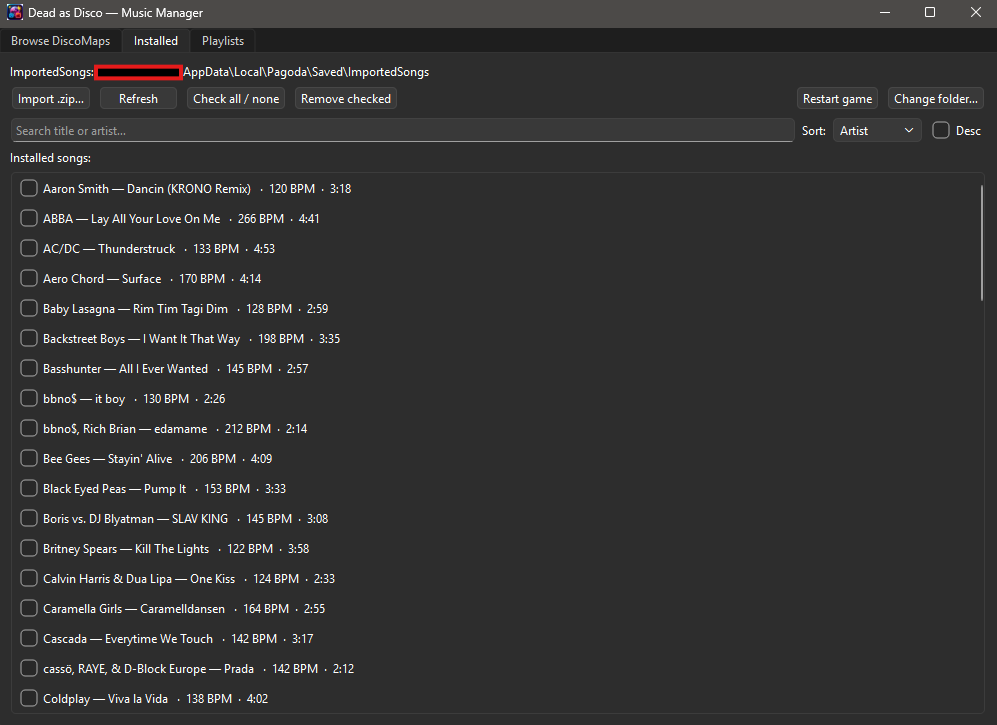
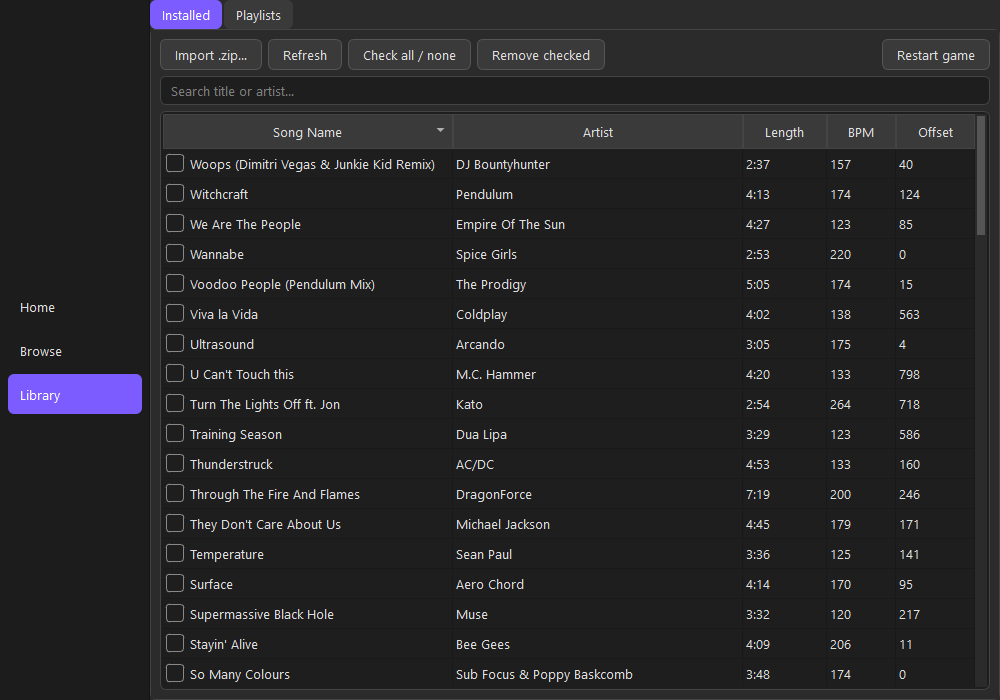
Update README and screenshots for new sidebar UI

diff --git a/README.md b/README.md
@@ -21,6 +21,7 @@ all from one app.
 - **Playlists**: create, edit, reorder, rename, and delete playlists of your
   imported songs
 - **Restart the game** from the app to apply changes
+- Simple sidebar navigation between **Home**, **Browse**, and **Library**
 
 ---
 
@@ -57,28 +58,35 @@ If PowerShell blocks venv activation, run once:
 
 ## Getting started
 
-On launch, the app opens on the **Browse DiscoMaps** tab and automatically
-finds your game's song folder. You can confirm the detected folder on the
-**Installed** tab — it's shown at the top.
+The left sidebar switches between three sections: **Home**, **Browse**, and
+**Library**.
 
-If the folder wasn't detected, go to the **Installed** tab, click
-**Change folder…**, and browse to:
+On launch, the app opens on the **Home** page and automatically finds your
+game's song folder, shown under **Imported songs folder**.
+
+![Home page](docs/screenshots/01-home-tab.png)
+
+If the folder wasn't detected, click **Browse…** or **Auto-detect** next to
+**Imported songs folder** and point it at:
 `%LOCALAPPDATA%\Pagoda\Saved\ImportedSongs`
+
+The Home page is also where you set the **game executable** (for restarting
+the game), your **Steam App ID**, and the app **theme** (Dark/Light).
 
 ## Browsing and downloading songs
 
-1. Open the **Browse DiscoMaps** tab.
+1. Open the **Browse** section in the sidebar.
 2. Log in to your DiscoMaps account (only needed once — the app remembers you).
 3. Find a map and download it as normal.
 4. The app detects the download, extracts it, and installs it automatically.
 
-![Browse DiscoMaps tab](docs/screenshots/02-browse-tab.png)
+![Browse tab](docs/screenshots/02-browse-tab.png)
 
 Restart the game to see newly installed songs.
 
 ## Managing your installed songs
 
-The **Installed** tab lists every song with its **BPM** and **length**.
+The **Library → Installed** tab lists every song with its **BPM** and **length**.
 
 ![Installed songs tab](docs/screenshots/03-installed-tab.png)
 
@@ -92,8 +100,8 @@ The **Installed** tab lists every song with its **BPM** and **length**.
 
 ## Restarting the game
 
-Click **Restart game** (Installed tab) to close Dead as Disco and relaunch it.
-Use this after making changes so they take effect.
+Click **Restart game** (Library → Installed tab) to close Dead as Disco and
+relaunch it. Use this after making changes so they take effect.
 
 ## Playlists
 
@@ -103,7 +111,7 @@ The manager builds new playlists from a blueprint:
 
 1. In the **game**, create a new playlist named exactly **`Template`** and add one song
 2. Fully exit the game.
-3. In the manager, open the **Playlists** tab and click **Rescan**.
+3. In the manager, open **Library → Playlists** and click **Rescan**.
 
 The Template is protected — it can't be edited or deleted from the app.
 
@@ -112,7 +120,7 @@ The Template is protected — it can't be edited or deleted from the app.
 ### Creating a playlist
 
 1. Make sure the game is **closed**.
-2. On the **Playlists** tab, click **New playlist…**
+2. On the **Library → Playlists** tab, click **New playlist…**
 3. Enter a name.
 4. In the song picker, **tick the songs** you want (search and sort work
    here too), then click **OK**.
